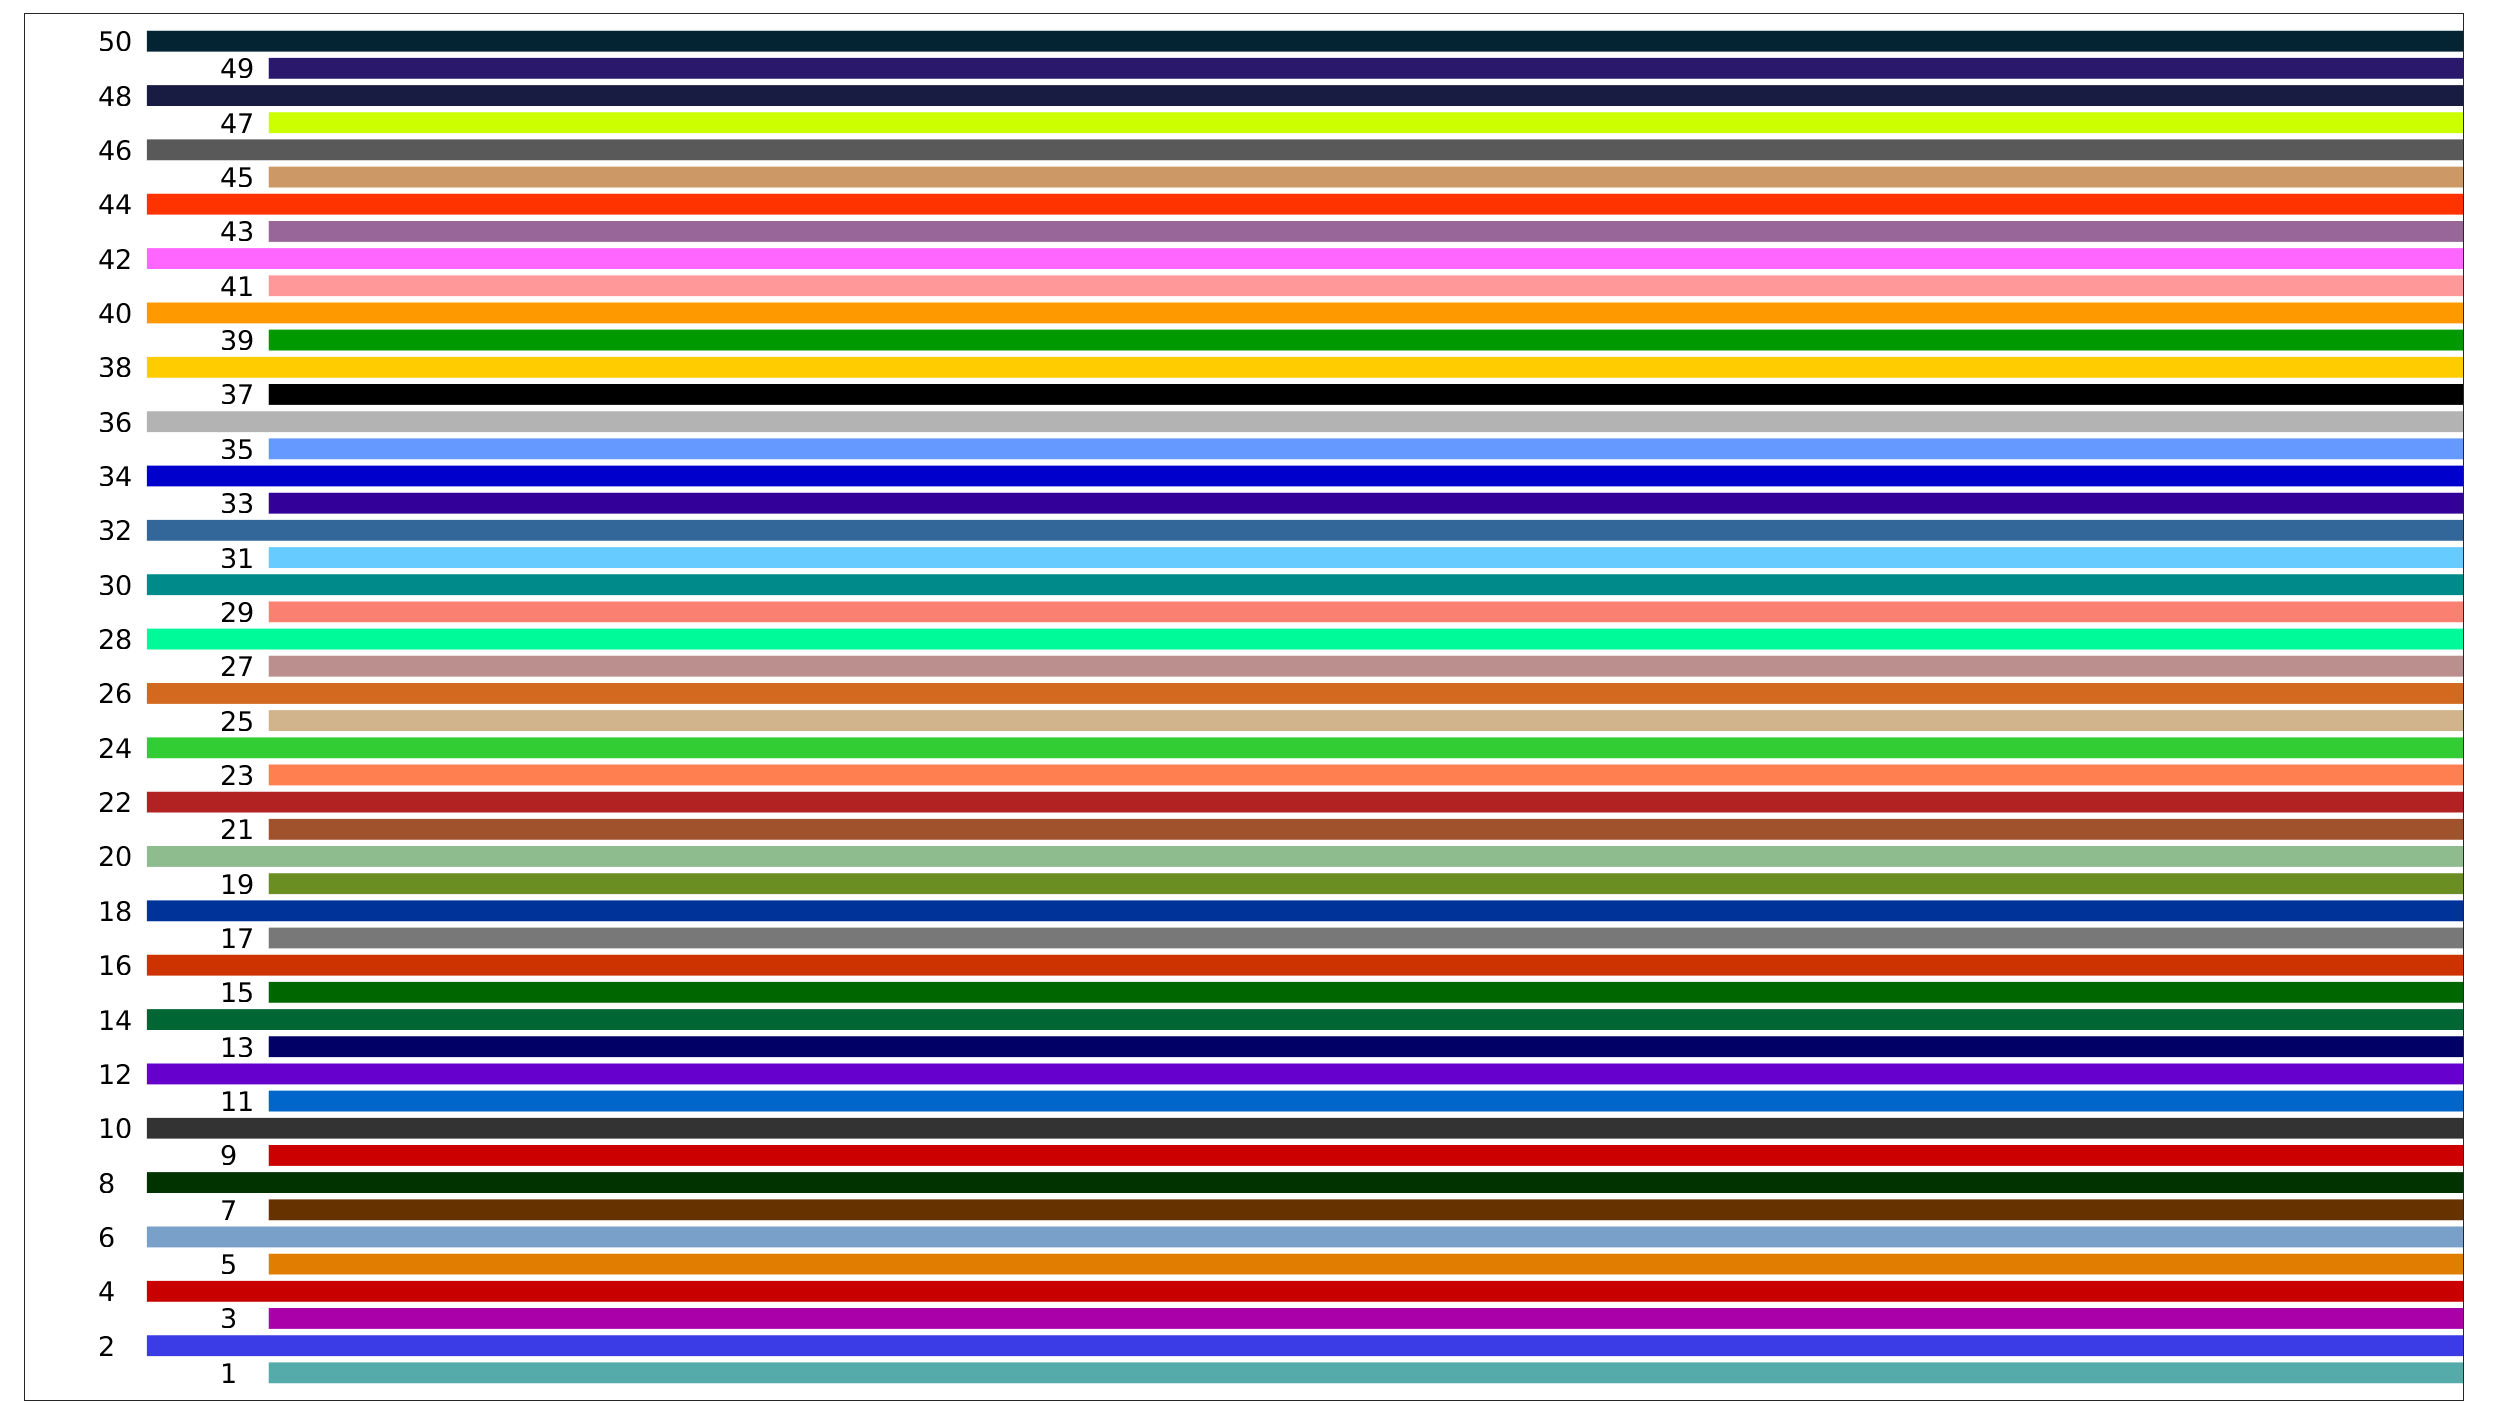
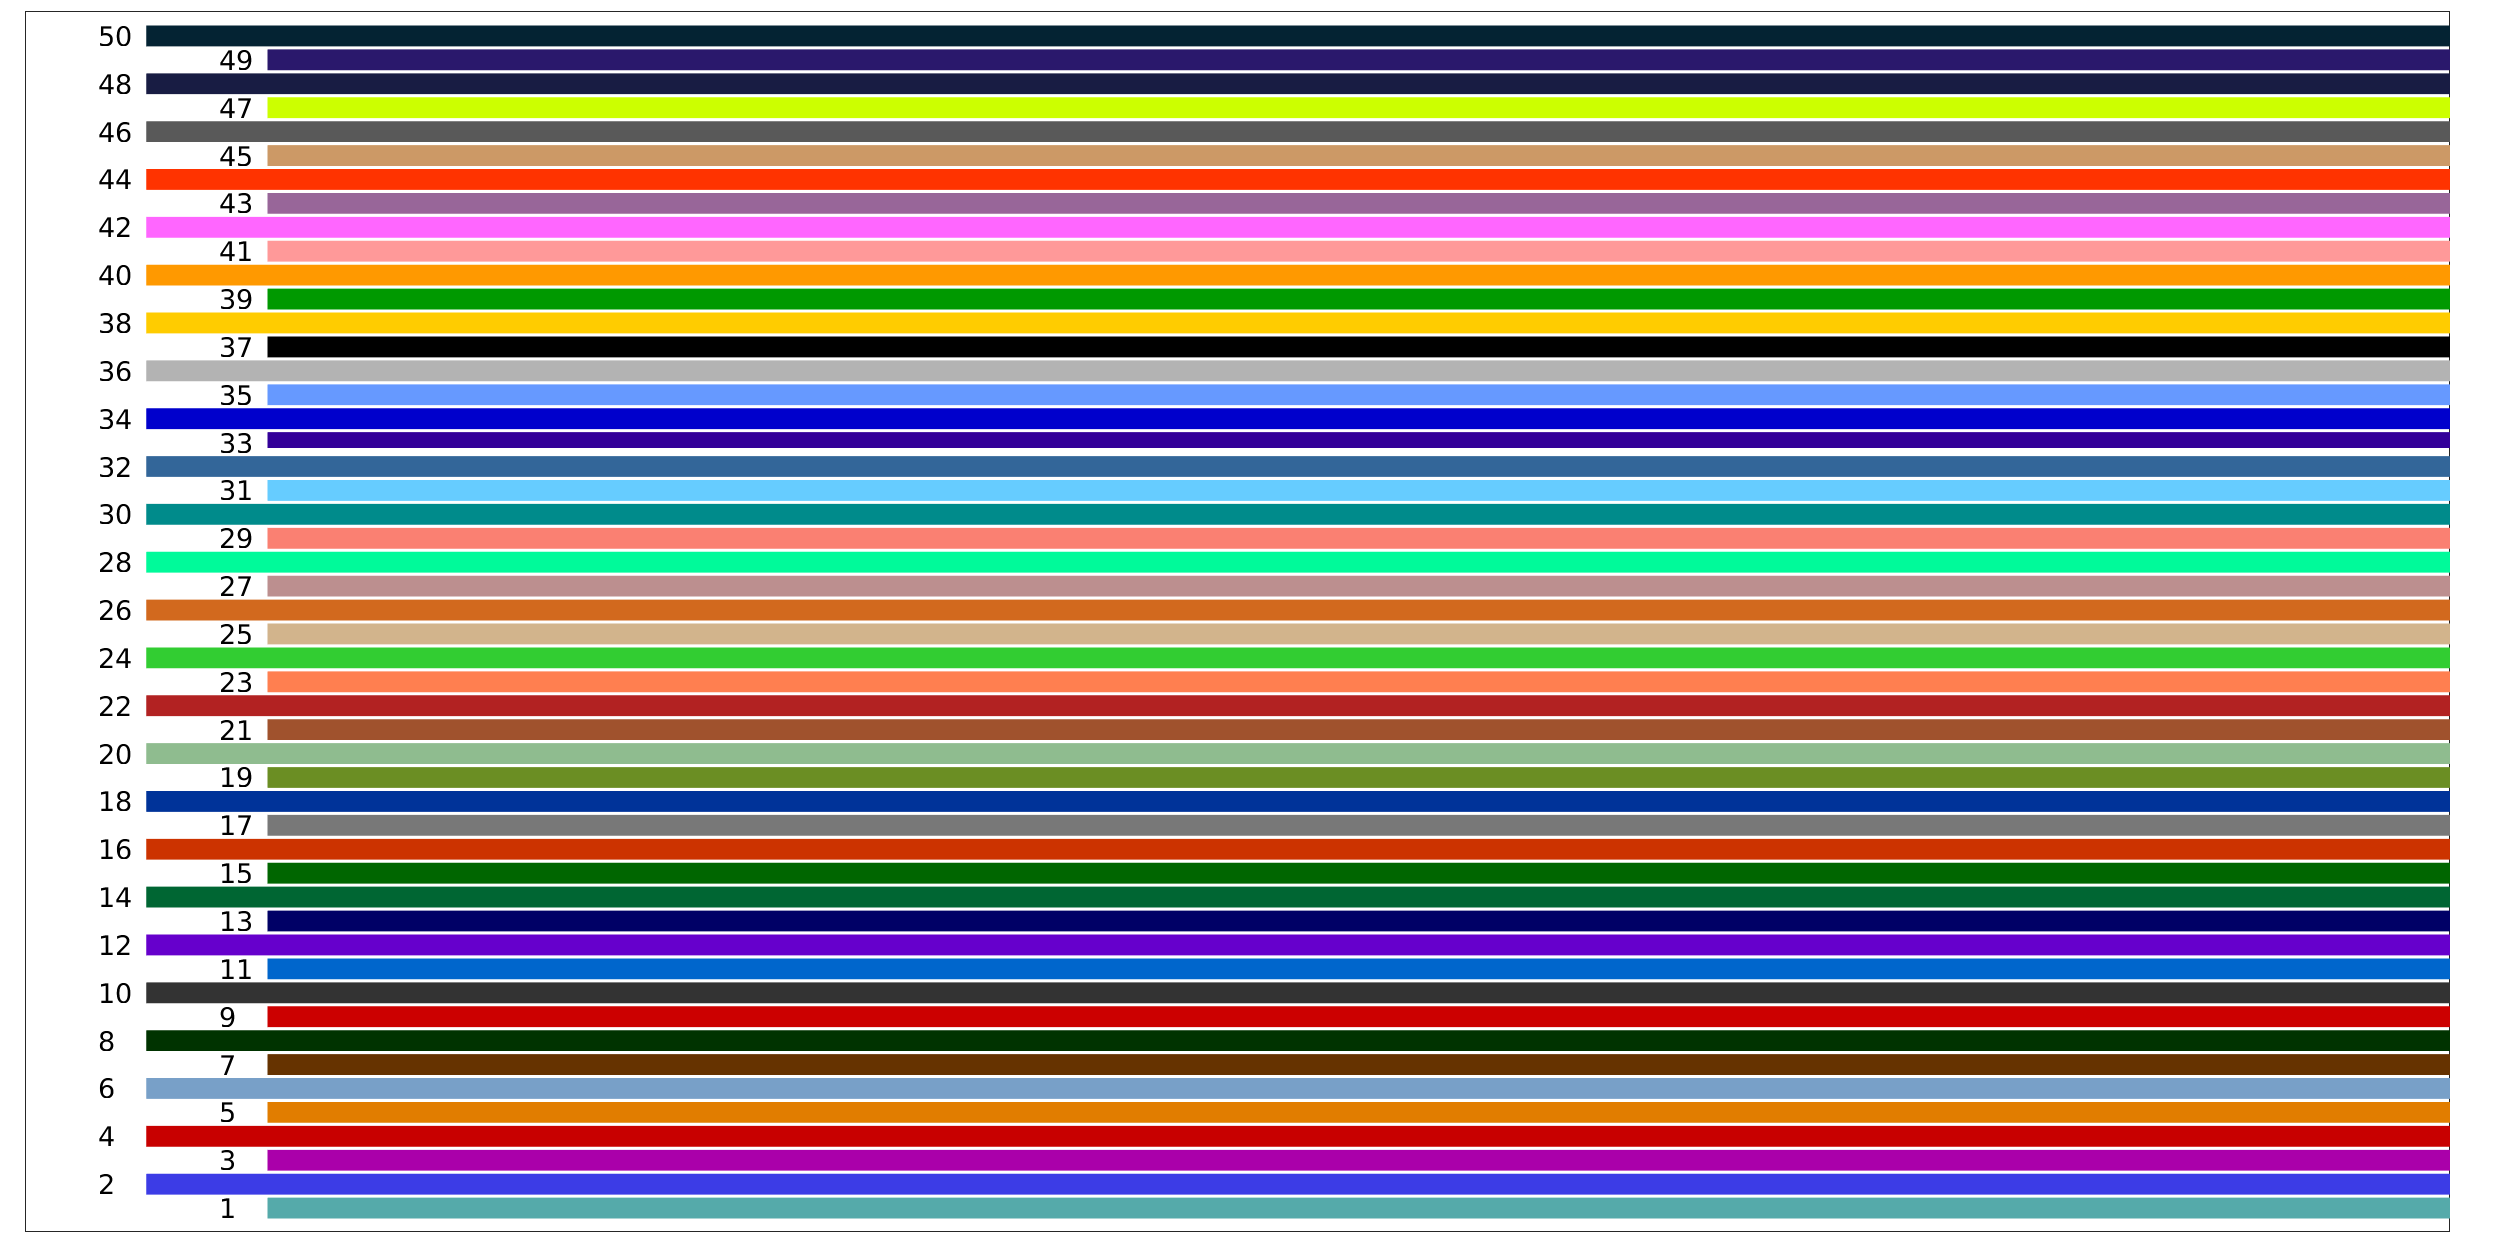
added instructions and options in acc_color

Changed region(s): [[0.0312, 0.0, 0.9984, 1.0]]

diff --git a/acc_colors.m b/acc_colors.m
@@ -52,4 +52,7 @@ Color(:,48) = [0.093;0.111;0.261];  % bottom of balance
 Color(:,49) = [0.163;0.095;0.4223]; % bottom of haline
 Color(:,50) = [0.015;0.138;0.201];  % bottom of thermal
 Color = Color';
+% Color = sortrows(Color,3);
+% Color = sortrows(Color,2);
+% Color = sortrows(Color,1);
 % .........................................................................

diff --git a/README.md b/README.md
@@ -1,2 +1,17 @@
 # matlab_colormaps
 a set of plotting colors and colormaps for MATLAB
+
+Usage:
+
+To make a line plot using one of the solid colors (look at the 'color_demo.png' and say you want #9), call
+
+acc_colors
+plot(X,Y,'Color',Color(9,:))
+
+To use a colormap, look at the 'colormaps.pdf' and select a colormap you like (say cmo_tempo)
+
+cm = acc_colormaps_2('cmo_tempo');
+colormap(cm)
+contourf(X,Y,Z)
+
+Note: to see the solid colors in a spectrum, uncomment the 3 sortrows commands at the bottom of acc_colors and rerun script_colors_demo
